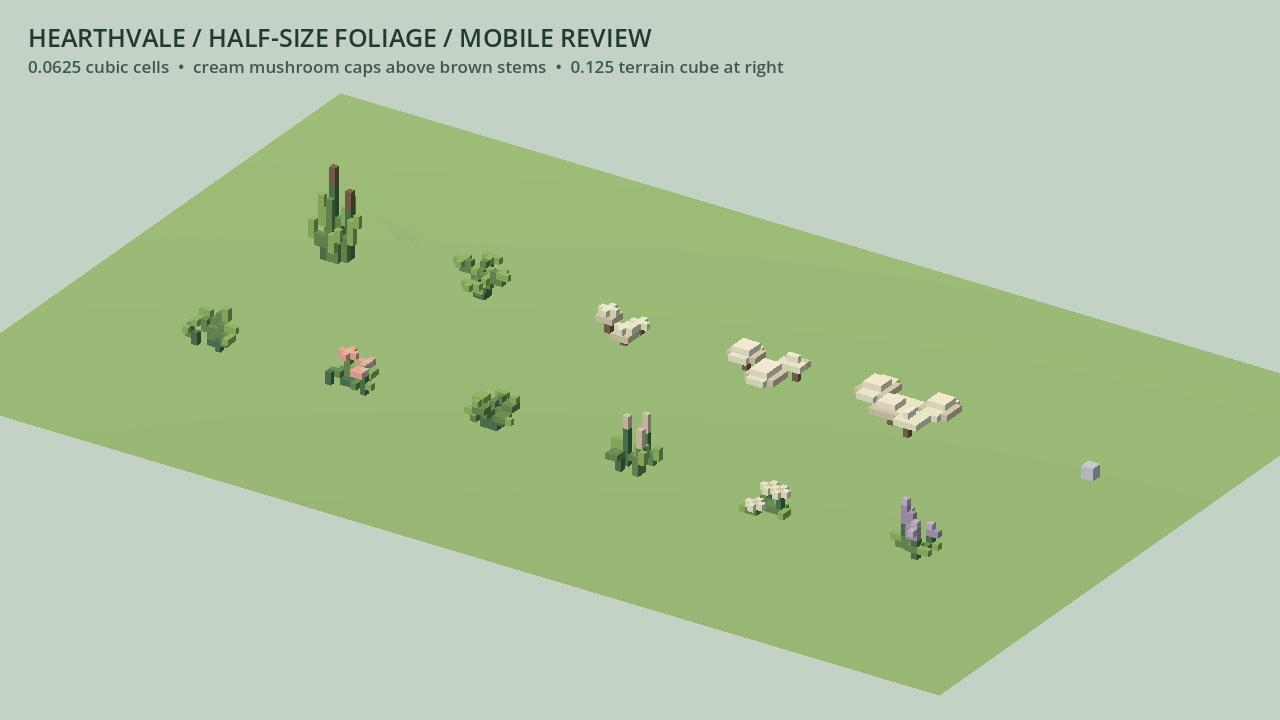
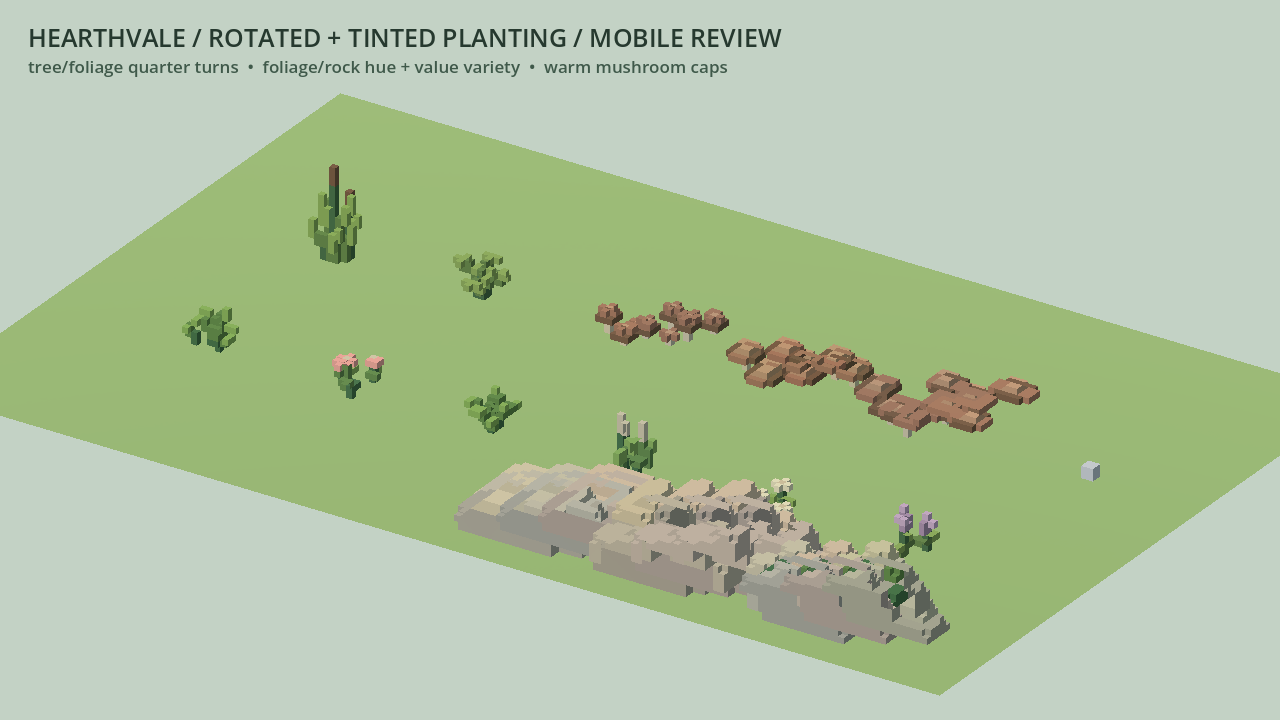
Vary planted props and restore mushroom palette

diff --git a/tasks/M1-playtest-iteration-2.md b/tasks/M1-playtest-iteration-2.md
@@ -7,6 +7,6 @@ Authorized by the player after the tree trial. This supplements the editable cot
 - Fresh cottages use quarter scale, half the preceding build's linear size. Existing saved transforms remain until the explicit undoable Miniature scale action. Trees should rise above the cottage. Test dimensions and attachments after conversion.
 - Generate/remove/reflow automatic windows by available wall space. Suppress optional shutters when crowded. Preserve manual/modified/suppressed choices and recover invalid attachments. Allow manual flower boxes and shutters.
 - Use a 0.125 world-unit visible cell for native terrain and authoritative cottage structure. Use cubic 0.0625 presentation cells for non-terrain visuals, including vegetation and rocks, with 0.125 placement authority. The player explicitly approved reducing all ground-foliage variants to half their 7131d22 linear size while keeping trees and rocks unchanged. Merged surfaces represent integer spans of the selected tier. Preserve old saves through exact volumetric upsampling; keep legacy checkpoints. Measure the larger data/memory cost. Earlier plans to count visibly coarse terrain steps as merged fine cells were rejected by the player.
-- Provide separate controller foliage and tree brushes, plus local planting removal. Seed a restrained scatter of trees, foliage and rocks; save placement records in the same atomic checkpoint. A terrain edit clears roots intersecting changed cells, not its whole bounding rectangle. Undo/redo/cancel restores both layers; reload must not resurrect removed planting.
+- Provide separate controller foliage and tree brushes, plus local planting removal. Seed a restrained scatter of trees, foliage and rocks. Trees and foliage use stable cardinal rotations derived from their planting records; foliage and rocks use subtle stable per-instance color modulation. Mushroom sources retain the earlier pale-stem/warm-cap palette. Save placement records in the same atomic checkpoint. A terrain edit clears roots intersecting changed cells, not its whole bounding rectangle. Undo/redo/cancel restores both layers; reload must not resurrect removed planting.
 
 Evidence: rerun full existing regression suite, new placement/history/checkpoint and visual-grid tests; actual Mobile normal/close/edited captures; short desktop cost measurements; versioned signed ARM64 debug APK. Upload to the player's Drive only when the writable connection is actually available. Physical Thor checks and palette/visual approval remain separate and pending player review.

diff --git a/reports/Fine-prop-grid.md b/reports/Fine-prop-grid.md
@@ -6,8 +6,8 @@ miniatures against the terrain.
 
 Follow-up direction supersedes that size constraint for ground foliage: all eleven
 foliage variants are now half these dimensions. Trees and rocks remain unchanged.
-The cream mushroom surfaces are caps, not stems; broad cream cap geometry is now
-above narrow brown stems.
+Broad mushroom cap geometry remains above narrow stems, while the source palette
+returns to its earlier pale stems and warm brown caps.
 
 The 20 approved MCP sources were doubled in coordinate space and filled into solid
 2x2x2 subcells, preserving their established world bounds when converted at 0.0625.
@@ -18,10 +18,20 @@ world-space bounds. Every resulting connected
 component reaches Y=0; trees and rocks each remain a single component. Mushroom cap
 palette surfaces are checked above their cream stem surface.
 
-Gameplay continues to use translation-only MultiMesh instances. Trees and foliage
-retain their existing brush variant indices and saves. Rocks now load the authored
-slab, split, and moss meshes for the existing three rock indices. Terrain, placement,
-collision, cottage structure, and save coordinates remain on 0.125.
+Gameplay uses deterministic cardinal rotations for trees and foliage, preserving
+the voxel grid while varying silhouettes in both the starter scatter and brushes.
+Foliage and rock MultiMesh instances carry restrained deterministic color modulation
+without extra draw batches. Existing brush variant indices and saves are unchanged.
+Rocks load the authored slab, split, and moss meshes for the existing three rock
+indices. Terrain, placement, collision, cottage structure, and save coordinates
+remain on 0.125.
 
 Actual desktop Mobile capture: `reports/screenshots/fine-prop-grid.png`. This is a
 rendering and regression gate, not physical Thor performance or player approval.
+
+The placement-variation follow-up is shown in
+`reports/screenshots/foliage-halfsize.png`. The focused actual Mobile capture passes
+2/2 checks, the full actual Mobile visual grid passes 322,746 checks across 107,099
+instances, and the normal regression suite passes. Local checkpoint fixtures for
+that suite were redirected under ignored `.tools` storage because the host C: drive
+had only about 38 MB free; CI retains its normal isolated user-data path.

diff --git a/docs/design.md b/docs/design.md
@@ -619,6 +619,8 @@ The structural world-space visual unit is `VisualGrid.UNIT = 0.125` across nativ
 
 Structural dimensions, resize increments and attachment anchors remain on the `0.125` grid. Decorative meshes are derived presentation around those authoritative anchors and may regenerate without rewriting saves. At both tiers, asset-local units and object transforms do not excuse a mismatch: measure after the complete transform, keep cells cubic, and change the number and arrangement of cells instead of stretching them into rectangular voxels.
 
+Trees and ground foliage receive deterministic cardinal Y rotation from each existing planting record. These exact quarter turns preserve voxel alignment and apply equally to the starter scatter and brush placement without expanding the save schema. Foliage and rocks use per-instance color modulation for a restrained stable hue/value range without extra draw batches. Mushroom geometry retains pale stems below the restored warm 7131d22 caps.
+
 This preserves the distinction between appearance and simulation. The native terrain editing grid, brush increments, collision and attachment coordinates do not require independently simulated decorative blocks. Merged surfaces are allowed when equivalent to a union of cells on their declared tier; not every rendered box or wall is one voxel. Tests must validate final world-space cell edges, cubic proportions and grid phase after building resizing, legacy miniature conversion, duplication and asset transforms, while visual review compares normal gameplay zoom with close inspection.
 
 Historical audit of the preceding M1 review build: tree crowns used a 0.24-world-unit grid (0.255 cube size including overlap), while roof pieces derived widths/depths from building extent and transform; shrubs used further independently sized boxes. That build did not satisfy this requirement. Iteration 2 below replaces those generators and adds world-space geometry checks; visual approval remains the player's decision.

diff --git a/HANDOFF.md b/HANDOFF.md
@@ -4,12 +4,19 @@ Updated 2026-09-08 during the M1 visual-finish work on `feat/m1-ui-polish`. Read
 
 ## Current visual-finish branch
 
+On 2026-09-09 the player approved the half-size foliage and requested the earlier
+mushroom coloring plus placement variety. Mushroom sources restore the exact
+7131d22 pale-stem/warm-cap palette. Foliage and rocks receive subtle deterministic
+per-instance hue/value modulation without extra draw batches. Trees and foliage
+use deterministic 0/90/180/270-degree Y turns derived from existing planting
+records; this covers the starter scene and both brushes without changing saves,
+anchors, voxel cells, undo/redo, or rock orientation.
+
 On 2026-09-09 the player approved the 0.0625 detail cells but clarified that all
 eleven ground-foliage variants should also be physically smaller. Their authored
 sources are now half the 7131d22 linear dimensions, with trees and rocks unchanged.
-The player also clarified that cream is the mushroom cap color: all three mushroom
-variants retain broad cap geometry above narrow stems, with cream cap palettes over
-brown stems and every cluster grounded. Placement anchors, brush indices, and saves
+All three mushroom variants retain broad cap geometry above narrow stems, with
+every cluster grounded. Placement anchors, brush indices, and saves
 are unchanged. See `foliage-halfsize.authoring.json`.
 
 On 2026-09-09 the player clarified that the authored trees were correctly sized

diff --git a/assets/source/magicavoxel/README.md b/assets/source/magicavoxel/README.md
@@ -121,6 +121,8 @@ MCP operation pattern, per-asset cut counts, snapshot names, and connectivity re
 All eleven gameplay foliage variants are now half the linear size of the 7131d22
 revision while retaining cubic 0.0625 cells and their existing brush indices and
 placement anchors. Trees and rocks are unchanged. The three mushroom sources keep
-broad cap geometry above narrow stems and now use light cream cap palettes over
-brown stems; every independent cluster remains grounded. See
+broad cap geometry above narrow stems; every independent cluster remains grounded.
+The later player-approved palette restoration returns the exact 7131d22
+pale-stem/warm-cap colors. Runtime foliage and rock tint variation is deterministic
+presentation and does not alter canonical source colors. See
 `foliage-halfsize.authoring.json` for the MCP operation record.
